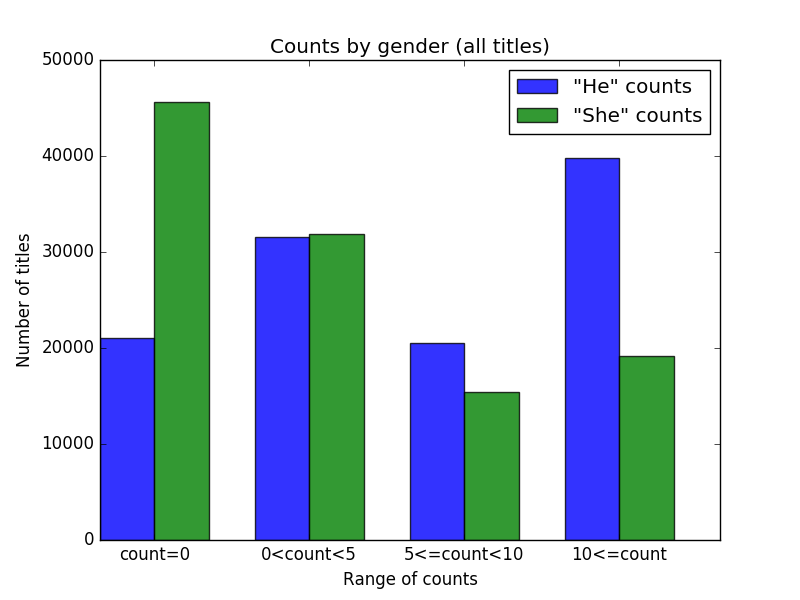
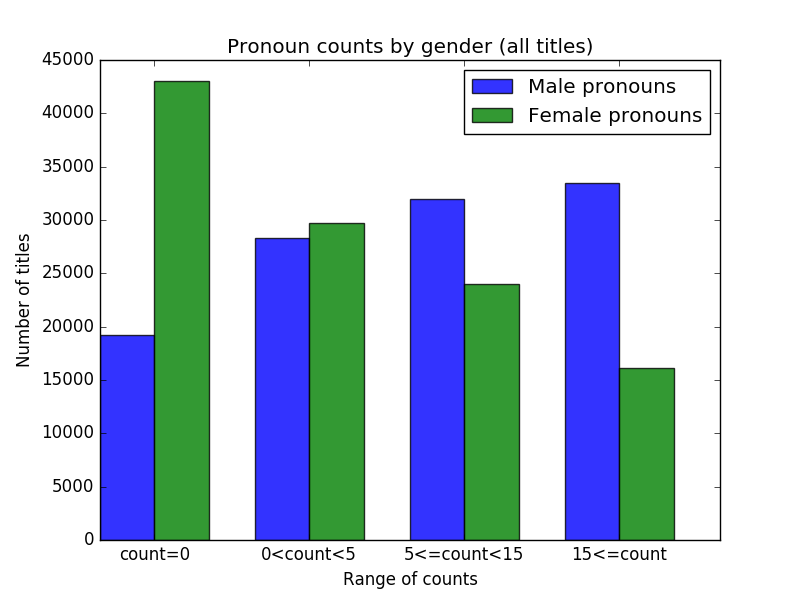
Added scatterplot and edited regular expressions

diff --git a/data science project/project.py b/data science project/project.py
@@ -1,7 +1,9 @@
+import math
 import pylab
 import matplotlib.pyplot as plt
 import numpy as np
 import csv
+import re
 
 plottitles = open("plots/titles")
 plotplots = open("plots/plots")
@@ -29,20 +31,29 @@ tvlargehecount=0
 #xlargeshecount=0
 hecountlist=[]
 shecountlist=[]
+numscatter=10
+countsarray=[[0]*numscatter for i in range(numscatter)]
 while plotline and titleline:
     hecount=0
     shecount=0
     while "<EOS>" not in plotline:
-        hecount+=plotline.count(" he ")
-        hecount+=plotline.count(" He ")
-        shecount+=plotline.count(" she ")
-        shecount+=plotline.count(" She ")
-        hecount+=plotline.count(" his ")
-        hecount+=plotline.count(" him ")
-        shecount+=plotline.count(" her ")
+        hecount+=len(re.findall(r'\b[hH]i[sm]\b',plotline))#.count(" he ")
+        hecount+=len(re.findall(r'\b[hH]e\b',plotline))
+        hecount+=len(re.findall(r'\b[hH]imself\b',plotline))
+        shecount+=len(re.findall(r'\b[hH]ers?\b',plotline))
+        shecount+=len(re.findall(r'\b[sS]he\b',plotline))
+        shecount+=len(re.findall(r'\b[hH]erself\b',plotline))
+#        hecount+=plotline.count(" He ")
+#        shecount+=plotline.count(" she ")
+#        shecount+=plotline.count(" She ")
+#        hecount+=plotline.count(" his ")
+#        hecount+=plotline.count(" him ")
+#        shecount+=plotline.count(" her ")
         plotline=plotplots.readline()
-    hecountlist.append(hecount)
-    shecountlist.append(shecount)
+    if hecount<numscatter and shecount<numscatter:
+        countsarray[hecount][shecount]+=1
+        hecountlist.append(hecount)
+        shecountlist.append(shecount)
     if shecount!=0 and hecount==0:
         femcount+=1
     if shecount==0 and hecount!=0:
@@ -55,13 +66,13 @@ while plotline and titleline:
         smallhecount+=1
     if shecount>0 and shecount<5:
         smallshecount+=1
-    if hecount>=5 and hecount<10:
+    if hecount>=5 and hecount<15:
         medhecount+=1
-    if shecount>=5 and shecount<10:
+    if shecount>=5 and shecount<15:
         medshecount+=1
-    if shecount>=10 and shecount<50:
+    if shecount>=15: #and shecount<50:
         largeshecount+=1
-    if hecount>=10: # and hecount<50:
+    if hecount>=15: # and hecount<50:
         largehecount+=1
     if  "TV series" in titleline or "television series" in titleline:
         if shecount==0:
@@ -72,19 +83,38 @@ while plotline and titleline:
             tvsmallhecount+=1
         if shecount>0 and shecount<5:
             tvsmallshecount+=1
-        if hecount>=5 and hecount<10:
+        if hecount>=5 and hecount<15:
             tvmedhecount+=1
-        if shecount>=5 and shecount<10:
+        if shecount>=5 and shecount<15:
             tvmedshecount+=1
-        if shecount>=10 and shecount<50:
+        if shecount>=15: #and shecount<50:
             tvlargeshecount+=1
-        if hecount>=10: # and hecount<50:
+        if hecount>=15: # and hecount<50:
             tvlargehecount+=1
     plotline=plotplots.readline()
     titleline=plottitles.readline()
 
 plotplots.close()
 plottitles.close()
+
+
+
+#Scatterplot                                                                                                
+x=[0]*(numscatter**2)
+y=[0]*(numscatter**2)
+c=[0]*(numscatter**2)
+s=[0]*(numscatter**2)
+for i in range(numscatter):
+    for j in range(numscatter):
+        x[i*numscatter+j]=i
+        y[i*numscatter+j]=j
+        c[i*numscatter+j]=math.log(float(countsarray[i][j])+1)
+        s[i*numscatter+j]=float(countsarray[i][j])/10
+plt.scatter(x,y,s=s,c=c,cmap='cool')
+pylab.savefig('coolscatter.png')
+
+plt.scatter(x,y,s=s,c=c,cmap='hot')
+pylab.savefig('hotscatter.png')
 
 #Plotting all titles
 n_groups = 4
@@ -96,17 +126,17 @@ opacity = 0.8
 rects1 = plt.bar(index, [zerohecount,smallhecount,medhecount,largehecount], bar_width,
                  alpha=opacity,
                  color='b',
-                 label='"He" counts')
+                 label='Male pronouns')
  
 rects2 = plt.bar(index + bar_width, [zeroshecount,smallshecount,medshecount,largeshecount], bar_width,
                  alpha=opacity,
                  color='g',
-                 label='"She" counts')
+                 label='Female pronouns')
  
 plt.xlabel('Range of counts')
 plt.ylabel('Number of titles')
-plt.title('Counts by gender (all titles)')
-plt.xticks(index + bar_width, ('count=0', '0<count<5', '5<=count<10', '10<=count'))
+plt.title('Pronoun counts by gender (all titles)')
+plt.xticks(index + bar_width, ('count=0', '0<count<5', '5<=count<15', '15<=count'))
 plt.legend()
  
 #plt.tight_layout()
@@ -122,17 +152,17 @@ opacity = 0.8
 rects1 = plt.bar(index, [tvzerohecount,tvsmallhecount,tvmedhecount,tvlargehecount], bar_width,
                  alpha=opacity,
                  color='b',
-                 label='"He" counts')
+                 label='Male pronouns')
 
 rects2 = plt.bar(index + bar_width, [tvzeroshecount,tvsmallshecount,tvmedshecount,tvlargeshecount], bar_width,
                  alpha=opacity,
                  color='g',
-                 label='"She" counts')
+                 label='Female pronouns')
 
 plt.xlabel('Range of counts')
 plt.ylabel('Number of titles')
-plt.title('Counts by gender (TV titles)')
-plt.xticks(index + bar_width, ('count=0', '0<count<5', '5<=count<10', '10<=count'))
+plt.title('Pronoun counts by gender (TV titles)')
+plt.xticks(index + bar_width, ('count=0', '0<count<5', '5<=count<15', '15<=count'))
 plt.legend()
 #plt.tight_layout()
 pylab.savefig('tvtitles.png')
